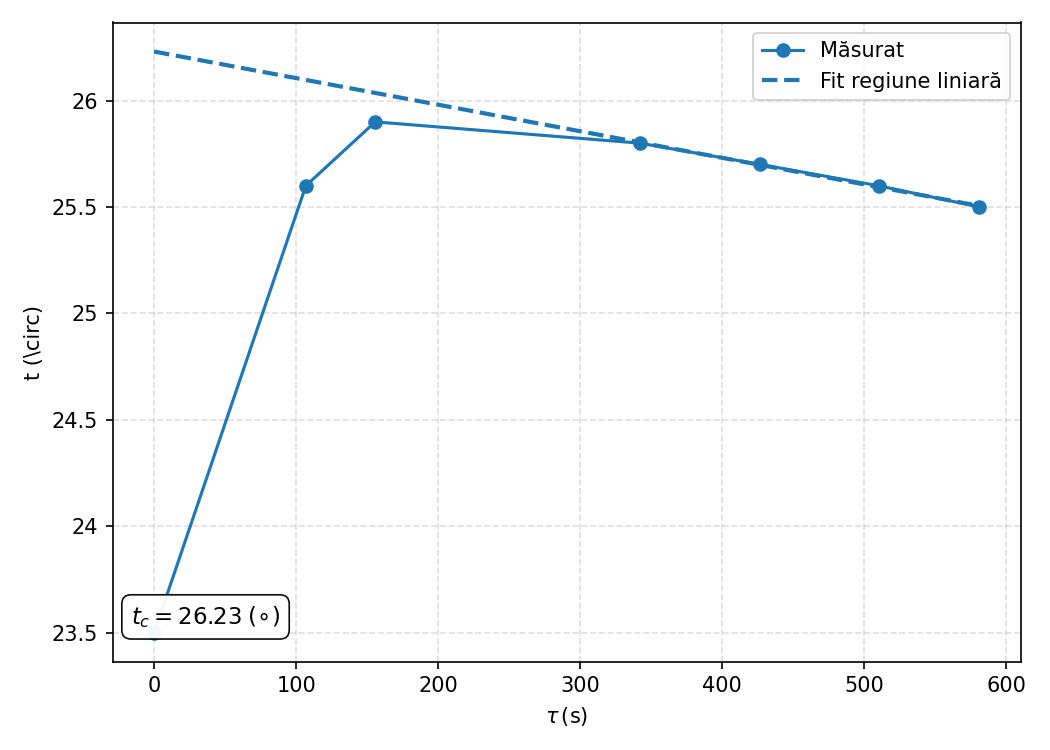
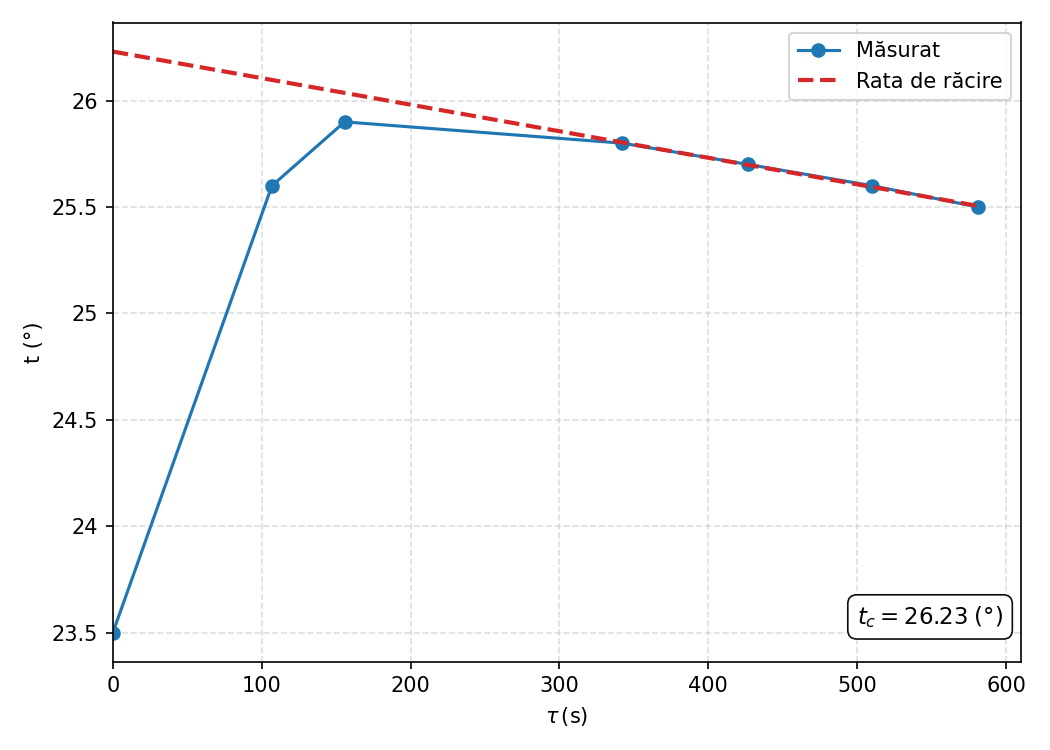
valori actualizate

diff --git a/main.py b/main.py
@@ -291,6 +291,11 @@ def main():
     show_slope = bool(tmpl.get("show_slope", True))
     show_intercept = bool(tmpl.get("show_intercept", True))
     pos = (tmpl.get("stats_pos") or "bottom-right").lower()
+    # Axis lower-bound controls
+    x_allow_negative = bool(tmpl.get("x_allow_negative", True))
+    y_allow_negative = bool(tmpl.get("y_allow_negative", True))
+    x_start_at_zero = bool(tmpl.get("x_start_at_zero", False))
+    y_start_at_zero = bool(tmpl.get("y_start_at_zero", False))
 
     # ---- Plot ----
     fig, ax = plt.subplots(figsize=(7, 5))
@@ -409,6 +414,20 @@ def main():
                       facecolor="white", edgecolor="black",
                       linewidth=0.8, alpha=0.95)
         )
+
+    # Apply axis lower bounds if requested
+    if (not x_allow_negative) or x_start_at_zero:
+        try:
+            left, right = ax.get_xlim()
+            ax.set_xlim(left=0, right=right)
+        except Exception:
+            ax.set_xlim(left=0)
+    if (not y_allow_negative) or y_start_at_zero:
+        try:
+            bottom, top = ax.get_ylim()
+            ax.set_ylim(bottom=0, top=top)
+        except Exception:
+            ax.set_ylim(bottom=0)
 
     # legend when multiple labeled items or any explicit labels
     if True:
